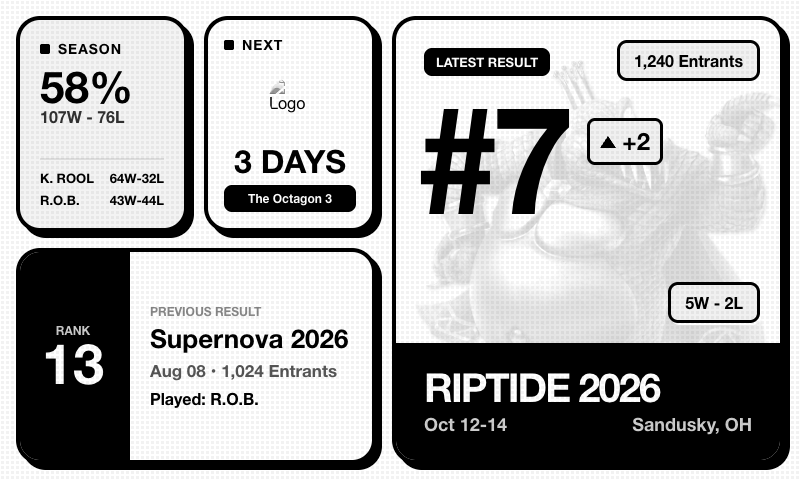
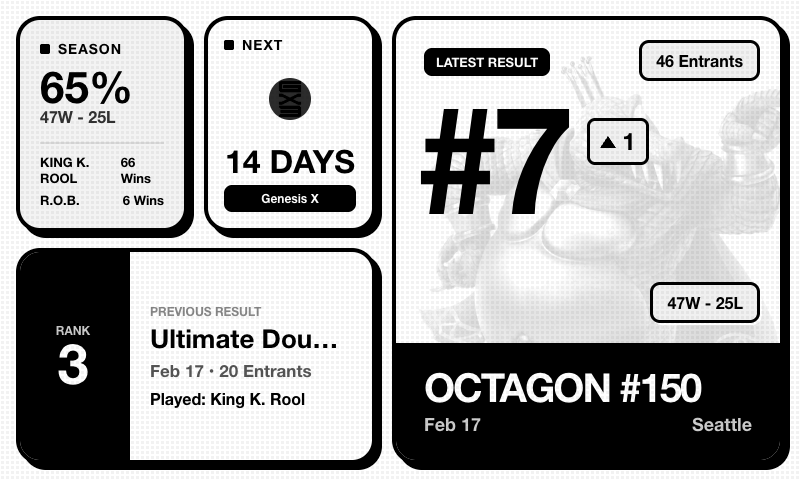
fix values from api + update image

diff --git a/src/preview.ts b/src/preview.ts
@@ -7,41 +7,47 @@ const engine = new Liquid();
 
 const mockData: SmashPluginData = {
   user: {
-    gamerTag: 'MkLeo',
-    images: []
+    gamerTag: 'Dahveed',
+    images: [
+      {
+        id: '2948184',
+        url: 'https://images.start.gg/images/user/1114021/image-d904c0bd0ca3c74cc0242188571d3fa9.jpg?ehk=FeHLFGUXMAMW8SYyrwPAygviagn99IX2%2BWHsLN2jD0U%3D&ehkOptimized=cWpUBDh91HOjuhqZgoqR7fBnWXlASKrljCjWuspmb8A%3D',
+        type: 'profile'
+      }
+    ]
   },
   season: {
     win_rate: 65,
-    wins: 107,
-    losses: 58,
+    wins: 47,
+    losses: 25,
     top_chars: [
-      { name: 'Byleth', usage_count: 64, image_url: 'https://images.start.gg/images/character/1539/image-a7b3c5686c170a688cbd22ed36f9dac5.png?ehk=rxCMSD5p27H9Ow5lEGiHRlqDfkvgr6uVgJMAeZEyTAM%3D&ehkOptimized=DdRKJyoOywTpAzHV9xxgQ07bmrqvK18taOfuVZ%2FH5Tw%3D' },
-      { name: 'Joker', usage_count: 43, image_url: 'https://images.start.gg/images/character/1453/image-b284052b845b6584f82c5c6d7dd71c55.png?ehk=Ezb4ec1g7C2rjTUyYhFmzupri0qgVmgJdYxT0R7UUNw%3D&ehkOptimized=OW2SIJlReatDRTRJK%2Fb0WECcoOnEZ92O%2FqOijp1neBY%3D' }
+      { name: 'King K. Rool', usage_count: 66, image_url: 'https://images.start.gg/images/character/1407/image-649a64550b8848a082dbf9b8d6e545d1.png?ehk=RHaPklJczUB21bhnLnALkwi4XQXxRlZdpJUbo1S7SMk%3D&ehkOptimized=F4qN1P5o3OPxGHmBl4MA9SfxS2zLdSrbZ2%2FRLFYoILE%3D' },
+      { name: 'R.O.B.', usage_count: 6, image_url: 'https://images.start.gg/images/character/1323/image-ff45bd739bb70c5b557247b071757f9c.png?ehk=GTLNejSa6BYTPzaBO%2FThijmCIzfj6tJ5dsZcyOBCZu8%3D&ehkOptimized=T8O79GGv3DdxUB5LDUeRNy9G6RzpR4GeLlQBWulkrFE%3D' }
     ]
   },
   next_tournament: {
     name: 'Genesis X',
     days_remaining: 14,
-    image_url: 'https://images.start.gg/images/tournament/536257/image-a41764722525540306d860160f252445.png'
+    image_url: 'https://images.start.gg/images/tournament/756975/image-0c9da33e1bcad42e0104a43f02623183.png'
   },
   latest_result: {
-    rank: 1,
-    trend: 3,
-    event_name: 'Ultimate Singles',
-    tournament_name: 'Smash Factor X',
-    date: 'Jul 28',
-    location: 'Mexico City',
-    entrants: 1024,
-    char_image_url: 'https://images.start.gg/images/character/1453/image-c20b242549ef4e04a470a5225c1d862c.png?ehk=gYJay258HIpJyvp%2FqZyP42lK7aj8tt4XPlebXsCcziI%3D&ehkOptimized=%2BDDRskb70C1AckH%2BoowpLxLYqbyCLRWjGa2Asd0tS5k%3D',
-    char_played: 'Joker'
+    rank: 7,
+    trend: 1,
+    event_name: 'Ultimate Singles (ALTERNATE STAGE LIST)',
+    tournament_name: 'Octagon #150',
+    date: 'Feb 17',
+    location: 'Seattle',
+    entrants: 46,
+    char_image_url: 'https://images.start.gg/images/character/1407/image-c8adee7aaf47b788e22ad79842aba06c.png?ehk=y33xj%2BHmrlUyx%2BaIocE0rt7gQpFEy%2FOh%2BI88dbevV0U%3D&ehkOptimized=mEtPbfhGopCXphR7tniuMF%2BXpiG10eWejj331QSrRzQ%3D',
+    char_played: 'King K. Rool'
   },
   previous_result: {
-    rank: 4,
-    event_name: 'Ultimate Singles',
-    tournament_name: 'Super Smash Con',
-    date: 'Aug 10',
-    entrants: 2500,
-    char_played: 'Byleth'
+    rank: 3,
+    event_name: 'Ultimate Doubles',
+    tournament_name: 'Octagon #150',
+    date: 'Feb 17',
+    entrants: 20,
+    char_played: 'King K. Rool'
   }
 };
 

diff --git a/src/providers/startgg.ts b/src/providers/startgg.ts
@@ -46,7 +46,7 @@ export class StartGGSmashData implements ISmashData {
     const [upcoming, recentEvents, recentSets] = await Promise.all([
       this.fetchUpcomingTournaments(userData.id),
       this.fetchRecentEvents(userData.id),
-      this.fetchPlayerSets(userData.player.id, 1, 50),
+      this.fetchPlayerSets(userData.player.id, 1, 25),
     ]);
 
     return this.buildPayload(userData, upcoming, recentEvents, recentSets);
@@ -201,15 +201,18 @@ export class StartGGSmashData implements ISmashData {
     const charUsage: Record<string, number> = {};
 
     for (const set of recentSets) {
-      const isWin = set.winnerId === Number(playerId);
-      if (isWin) wins++;
-      else losses++;
-
       const userSlotIndex = set.slots.findIndex((s) =>
         s.entrant.participants.some((p) => p.player.id === playerId),
       );
 
-      if (userSlotIndex !== -1 && set.games) {
+      if (userSlotIndex === -1) continue;
+
+      const userEntrantId = Number(set.slots[userSlotIndex].entrant.id);
+      const isWin = set.winnerId === userEntrantId;
+      if (isWin) wins++;
+      else losses++;
+
+      if (set.games) {
         for (const game of set.games) {
           if (!game.selections) continue;
           const selection = game.selections.find(
